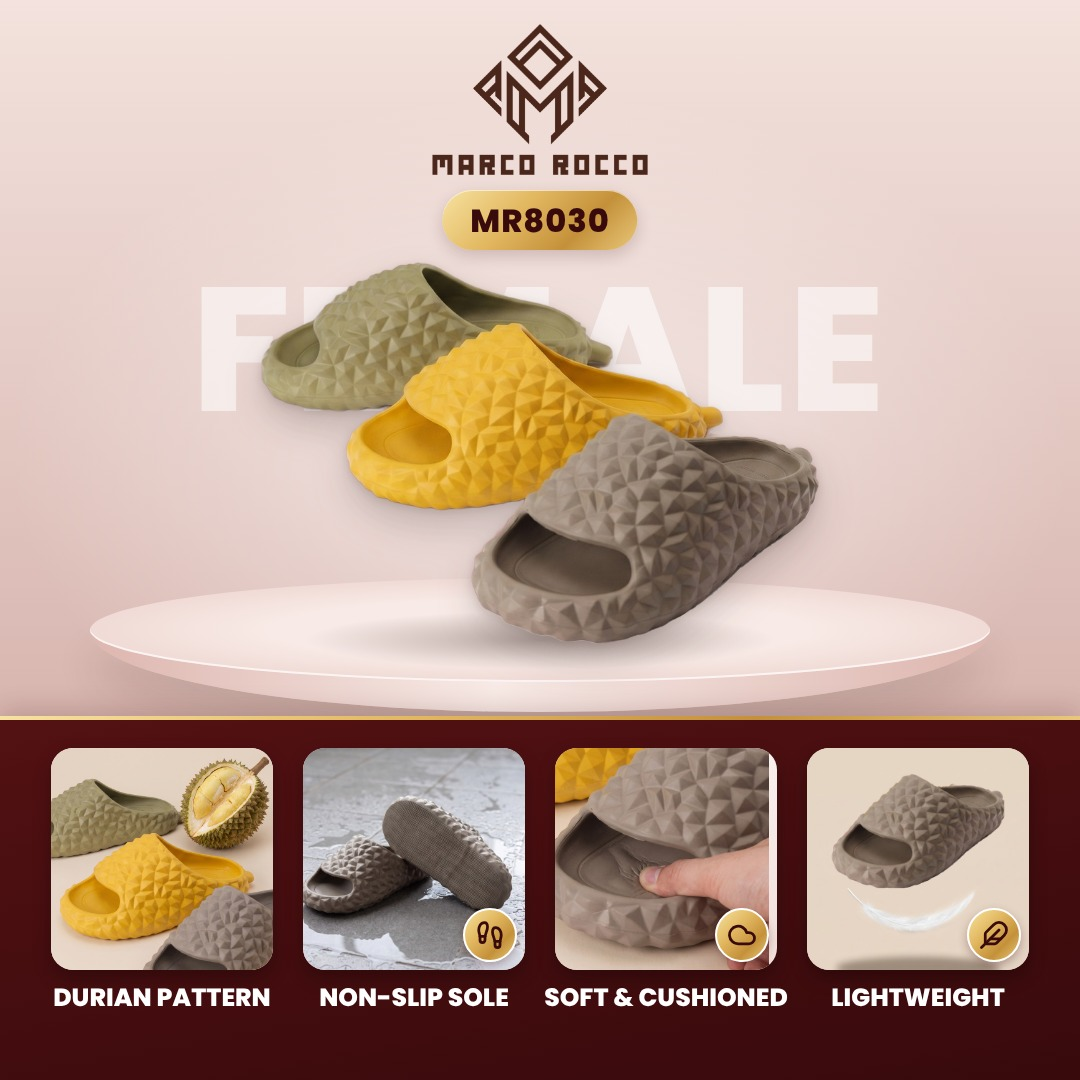
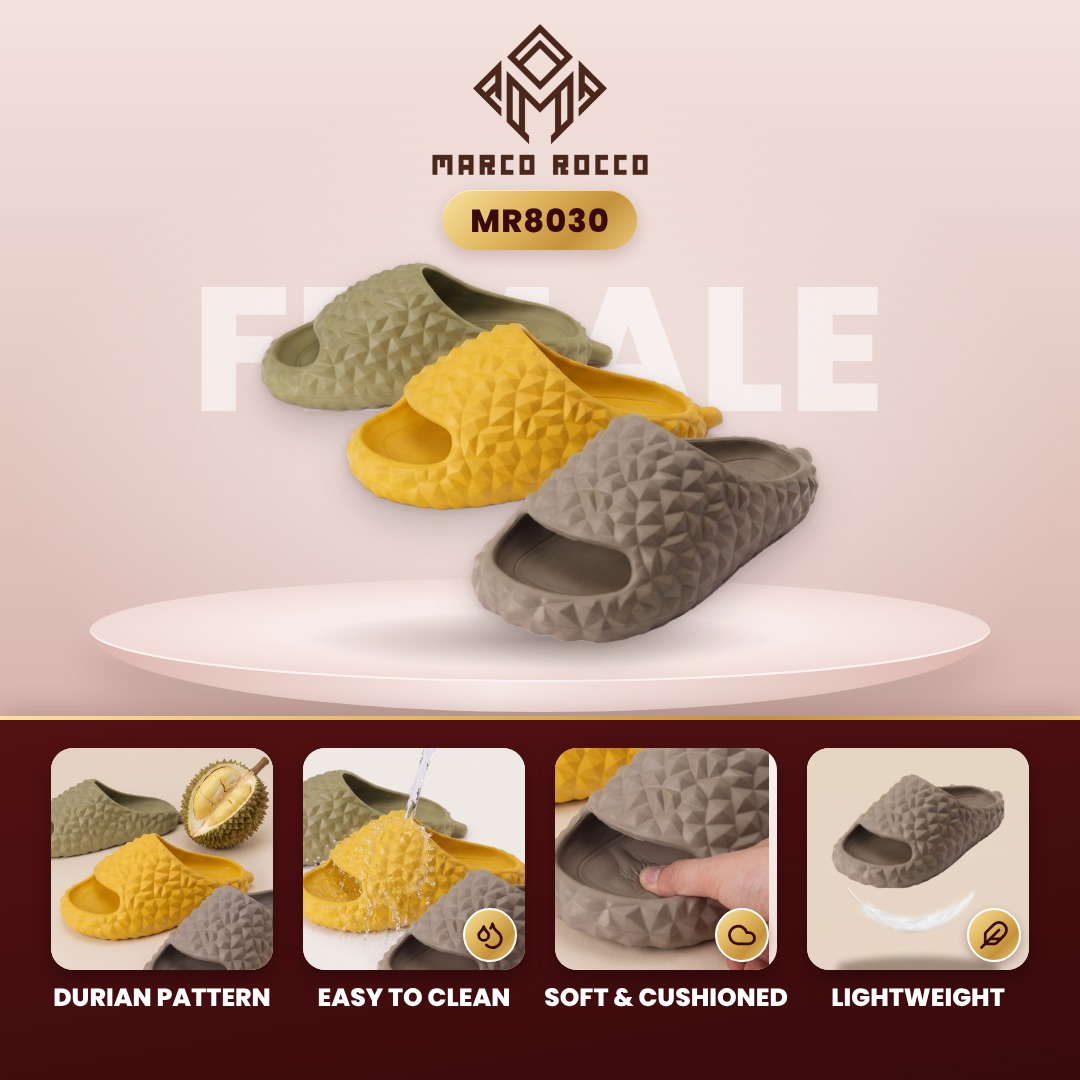
Replace the AI-drawn sole tiles with other USPs from the sheet
MR8012 anti-slip sole -> lightweight (real 4-colour set floating over a feather),
MR8030 non-slip sole -> easy to clean (water rinsing the real slide),
MR8035 non-slip sole -> soft & cushioned (thumb pressing the real footbed).

Claude-Session: https://claude.ai/code/session_01TQXEdB2Vd7QSkryHtwqbJX

Changed region(s): [[0.275, 0.6722, 0.4889, 0.9472]]

diff --git a/marco-rocco-usp/data/usp2.js b/marco-rocco-usp/data/usp2.js
@@ -21,7 +21,7 @@ const drops = { fx: ['drops'], icon: 'droplets' };
 window.MODELS2 = [
   { id: 'MR8012', gender: 'unisex', usps: [
     { label: 'Wave pattern design', scene: 'MR8012_1', crop: [.55, .5, .86] },
-    { label: 'Anti-slip sole', scene: 'MR8012_2', crop: [.56, .5, .88], icon: 'footprints' },
+    { label: 'Lightweight', scene: 'MR8012_5', crop: [.5, .44, .82], icon: 'feather' },
     { label: 'Soft & cushioned', scene: 'MR8012_3', crop: [.6, .46, .82], icon: 'cloud' },
     { label: 'Waterproof & easy to clean', scene: 'MR8012_4', crop: [.5, .45, .9], icon: 'droplets' },
   ] },
@@ -95,7 +95,7 @@ window.MODELS2 = [
   ] },
   { id: 'MR8030', gender: 'female', usps: [
     { label: 'Durian pattern', scene: 'MR8030_1' },
-    { label: 'Non-slip sole', scene: 'MR8030_2b', crop: [.53, .5, .86], icon: 'footprints' },
+    { label: 'Easy to clean', scene: 'MR8030_5', crop: [.56, .44, .84], icon: 'droplets' },
     { label: 'Soft & cushioned', scene: 'MR8030_3', crop: [.6, .55, .86], icon: 'cloud' },
     { label: 'Lightweight', scene: 'MR8030_4b', crop: [.5, .46, .8], icon: 'feather' },
   ] },
@@ -126,7 +126,7 @@ window.MODELS2 = [
   { id: 'MR8035', gender: 'male', usps: [
     { label: '4cm thick sole', view: [.82, .78, .38], bottom: .9, fx: [{ measure: { x: .92, h: .35, text: '4CM', tagLeft: true } }] },
     { label: 'Modern masculine look', view: [.24, .50, .55], icon: 'shirt' },
-    { label: 'Non-slip sole', scene: 'MR8035_3', crop: [.46, .46, .86], icon: 'footprints' },
+    { label: 'Soft & cushioned', scene: 'MR8035_5', crop: [.56, .5, .92], icon: 'cloud' },
     { label: 'Waterproof & easy to clean', scene: 'MR8035_4', icon: 'droplets' },
   ] },
 ];

diff --git a/marco-rocco-usp/tools/scene_tiles.py b/marco-rocco-usp/tools/scene_tiles.py
@@ -1,9 +1,10 @@
 """Makes the USP scene tiles used by template/usp2.html (`scene: '<NAME>'` in data/usp2.js):
 scenes/out/<NAME>.png (Nano Banana Pro edits of the real-photo inputs in scenes/in/) -> scenes/tiles/<NAME>.jpg, 720px.
 
-For the scenes in PASTE, the real product pixels are put back on top of the AI picture: the cut-out
-scenes/in/<MODEL>_<colour>.png at its place in the input (scenes/in/place.json), aligned to the output by
-phase correlation. So there the product is exactly the photo and only the surroundings (feather, shadow) are AI.
+For the scenes in PASTE, the real product pixels are put back on top of the AI picture: the cut-out at its place
+in the input (scenes/specs.json view for photos2/<MODEL>.png, or scenes/in/place.json for a single-shoe cut-out),
+aligned to the output by phase correlation. So there the product is exactly the photo and only the surroundings
+(feather, shadow) are AI.
 
 usage: python tools/scene_tiles.py
 """
@@ -17,16 +18,22 @@ from PIL import Image
 ROOT = os.path.join(os.path.dirname(__file__), '..')
 SC = os.path.join(ROOT, 'scenes')
 SIZE = 720
-PASTE = {'MR8030_4b': 'MR8030_taupe.png'}
+PASTE = {'MR8030_4b': 'scenes/in/MR8030_taupe.png', 'MR8012_5': 'photos2/MR8012.png'}
 
 place = json.load(open(os.path.join(SC, 'in', 'place.json')))
+for name, s in json.load(open(os.path.join(SC, 'specs.json'))).items():
+    # same placement as tools/scene_inputs.py
+    W, H = Image.open(os.path.join(ROOT, 'photos2', f"{s['model']}.png")).size
+    cx, cy, f = s['view']
+    k = 1024 / (f * W)
+    place[name] = {'x': round(512 - cx * W * k), 'y': round(512 - cy * H * k), 'w': round(W * k), 'h': round(H * k)}
 os.makedirs(os.path.join(SC, 'tiles'), exist_ok=True)
 for f in sorted(os.listdir(os.path.join(SC, 'out'))):
     name = f[:-4]
     out = Image.open(os.path.join(SC, 'out', f)).convert('RGB').resize((1024, 1024), Image.LANCZOS)
     if name in PASTE:
         p = place[name]
-        cut = Image.open(os.path.join(SC, 'in', PASTE[name])).convert('RGBA').resize((p['w'], p['h']), Image.LANCZOS)
+        cut = Image.open(os.path.join(ROOT, PASTE[name])).convert('RGBA').resize((p['w'], p['h']), Image.LANCZOS)
         inp = np.array(Image.open(os.path.join(SC, 'in', f)).convert('L'), np.float32)
         ai = np.array(out.convert('L'), np.float32)
         x0, y0, x1, y1 = p['x'] - 20, p['y'] - 20, p['x'] + p['w'] + 20, p['y'] + p['h'] + 20

diff --git a/marco-rocco-usp/README.md b/marco-rocco-usp/README.md
@@ -38,17 +38,18 @@ Each USP visual is a zoom into the real photo (`view: [cx, cy, f]`) with optiona
 - charms;
 - a floating product above a feather (lightweight).
 
-Some tiles are photo scenes instead (`scene: '<NAME>'`): MR8012 (all 4), MR8030 (all 4), MR8035 (non-slip,
-waterproof) and MR8022 (waterproof). These show a hand pressing the footbed, natural running water, a durian, a
-feather, or the outsole on a wet floor.
+Some tiles are photo scenes instead (`scene: '<NAME>'`): MR8012 (all 4), MR8030 (all 4), MR8035 (soft,
+waterproof) and MR8022 (waterproof). These show a hand pressing the footbed, natural running water, a durian, or a
+feather.
 
 1. `tools/scene_inputs.py` crops the real photo for each scene (`scenes/specs.json`) into `scenes/in/`.
 2. Nano Banana Pro adds the hand, water and so on, leaving the product as it is.
 3. The results are fetched into `scenes/out/` by the same workflow.
 4. `tools/scene_tiles.py` makes `scenes/tiles/<NAME>.jpg`. For the MR8030 feather scene it also pastes the
-   real product pixels back on top.
+   real product pixels back on top. The MR8012 feather scene does the same.
 
-There are no photos of the outsoles, so the soles in the non-slip scenes are drawn by the AI.
+There are no photos of the outsoles, so no scene shows a sole. Outsole scenes drawn by the AI (MR8012_2,
+MR8030_2/2b, MR8035_3) were wrong and are not used.
 
 ## Product photos
 
